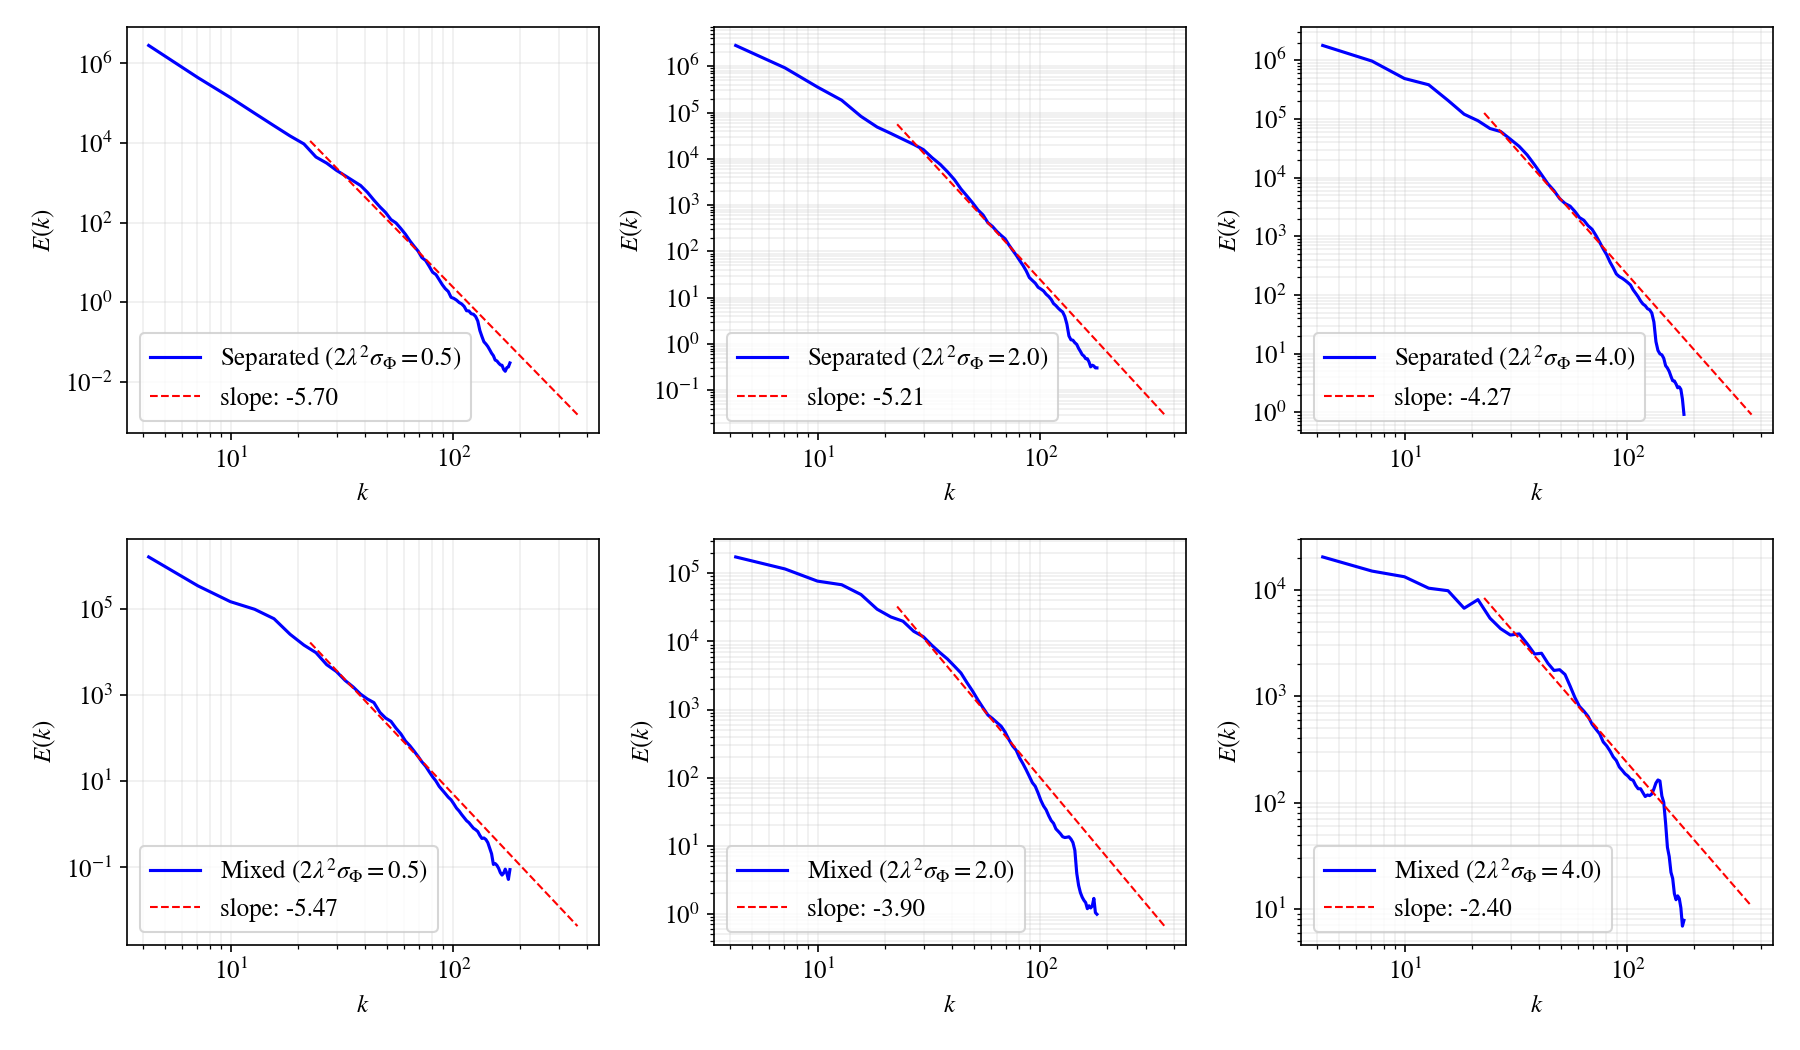
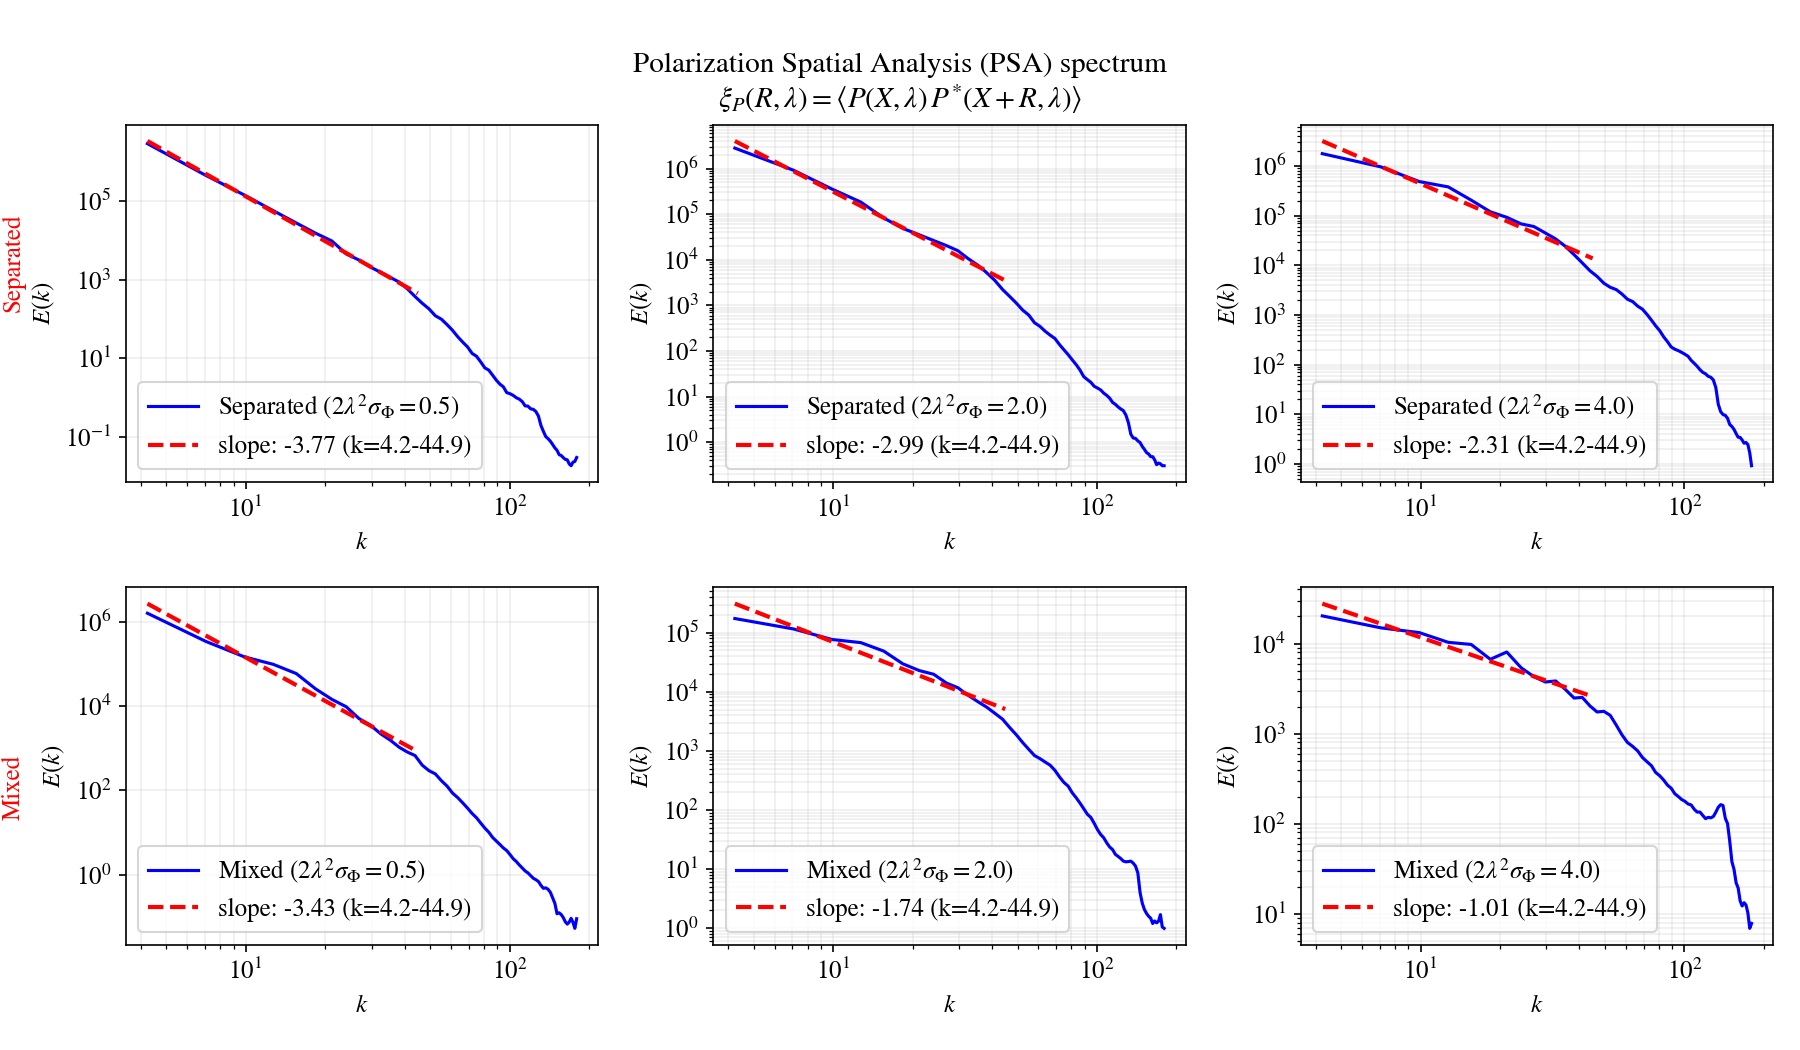
Fixed the range for slope

diff --git a/compare_measures/psa_lp_16_like.py b/compare_measures/psa_lp_16_like.py
@@ -52,7 +52,8 @@ class PSAConfig:
     apodize: bool = True  # apply 2D Hann window before FFT
     detrend: bool = True  # subtract mean P before FFT
     ring_bins: int = 64  # number of bins for the radial average
-    slope_fit_frac: Tuple[float, float] = (0.1, 0.5)  # fit range as fraction of k span (exclude extreme bins)
+    slope_fit_kmin: float = None  # minimum k for slope fitting (None = auto)
+    slope_fit_kmax: float = None  # maximum k for slope fitting (None = auto, uses first half)
 
 
 def load_fields(h5_path: str, keys: FieldKeys) -> Tuple[np.ndarray, np.ndarray, np.ndarray, np.ndarray]:
@@ -233,21 +234,24 @@ def psa_spectrum(P_map: np.ndarray, cfg: PSAConfig) -> Tuple[np.ndarray, np.ndar
     return kcenters, Ek, extras
 
 
-def fit_log_slope(k: np.ndarray, Ek: np.ndarray, frac_range: Tuple[float, float]) -> Tuple[float, float]:
-    """Fit slope m in log10(E) = a + m log10(k) over a fractional range of valid (finite) bins."""
+def fit_log_slope(k: np.ndarray, Ek: np.ndarray, kmin: float, kmax: float) -> Tuple[float, float]:
+    """Fit slope m in log10(E) = a + m log10(k) over a specific k range."""
     valid = np.isfinite(Ek) & (Ek > 0) & (k > 0)
     kv = k[valid]
     Ev = Ek[valid]
     if kv.size < 8:
         return np.nan, np.nan
-    i0 = int(frac_range[0] * kv.size)
-    i1 = max(i0 + 8, int(frac_range[1] * kv.size))
-    kv = kv[i0:i1]
-    Ev = Ev[i0:i1]
-    if kv.size < 8:
+    
+    # Select k range based on kmin and kmax
+    mask = (kv >= kmin) & (kv <= kmax)
+    kv_range = kv[mask]
+    Ev_range = Ev[mask]
+    
+    if kv_range.size < 8:
         return np.nan, np.nan
-    X = np.log10(kv)
-    Y = np.log10(Ev)
+    
+    X = np.log10(kv_range)
+    Y = np.log10(Ev_range)
     m, a = np.polyfit(X, Y, 1)
     return m, a
 
@@ -302,14 +306,25 @@ def plot_psa_spectra(k: np.ndarray, Ek_list: list, labels: list, cfg: PSAConfig,
 
     # Optional slope fits for the first spectrum
     if Ek_list:
-        m, a = fit_log_slope(k[1:], Ek_list[0][1:], cfg.slope_fit_frac)
+        # Auto-calculate k range if not specified
+        k_valid = k[1:]  # skip k=0 bin
+        if cfg.slope_fit_kmin is None:
+            kmin_auto = k_valid.min()
+        else:
+            kmin_auto = cfg.slope_fit_kmin
+            
+        if cfg.slope_fit_kmax is None:
+            kmax_auto = k_valid.max() / 4  # first third of k range
+        else:
+            kmax_auto = cfg.slope_fit_kmax
+            
+        m, a = fit_log_slope(k[1:], Ek_list[0][1:], kmin_auto, kmax_auto)
         if np.isfinite(m):
-            # Draw a guide line with the fitted slope through a mid-point
-            mid = np.nanmedian(k[np.isfinite(Ek_list[0]) & (k > 0)])
-            ymid = 10**(a + m * np.log10(mid))
-            kline = np.array([mid/4, mid*4])
-            yline = ymid * (kline / mid)**m
-            ax.loglog(kline, yline, linestyle='--', linewidth=1, label=f"slope: {m:.2f}", color="red")
+            # Draw the fitted line over the same range used for fitting
+            k_fit_range = np.linspace(kmin_auto, kmax_auto, 100)
+            y_fit_range = 10**(a + m * np.log10(k_fit_range))
+            ax.loglog(k_fit_range, y_fit_range, linestyle='--', linewidth=2, 
+                     label=f"slope: {m:.2f} (k={kmin_auto:.1f}-{kmax_auto:.1f})", color="red")
 
     ax.set_xlabel(r"$k$")
     ax.set_ylabel(r"$E(k)$")
@@ -362,6 +377,11 @@ def demo(h5_path: str):
     
     # Create 2x3 subplot layout (2 rows, 3 columns)
     fig, axes = plt.subplots(2, 3, figsize=(12, 7))
+    fig.suptitle('Polarization Spatial Analysis (PSA) spectrum\n$\\xi_P(R,\\lambda) = \\langle P(X,\\lambda)\\, P^{*}(X+R,\\lambda) \\rangle$', 
+                 fontsize=14, y=0.95)
+    
+    # Move panel to the right by 1%
+    plt.subplots_adjust(left=0.11)
     
     for i, lam in enumerate(lambda_values):
         cfg = PSAConfig(lam=lam, gamma=2.0, los_axis=0)
@@ -384,6 +404,12 @@ def demo(h5_path: str):
         ax_bottom = axes[1, i]
         plot_psa_spectra(k_mix, [Ek_mix], [f"Mixed ($2\\lambda^2 \\sigma_{{\\Phi}}={2*lam**2*sigma_phi:.1f}$)"], cfg,
                         title=fr"Mixed $2\\lambda^2 \\sigma_{{\\Phi}}={2*lam**2*sigma_phi:.1f}$", ax=ax_bottom)
+    
+    # Add vertical text labels for rows
+    fig.text(0.0075, 0.75, 'Separated', rotation=90, fontsize=12,  
+             ha='center', va='center', color='red')
+    fig.text(0.0075, 0.25, 'Mixed', rotation=90, fontsize=12,  
+             ha='center', va='center', color='red')
     
     plt.tight_layout()
     plt.savefig("lp2016_outputs/psa_spectra.png", dpi=150)
